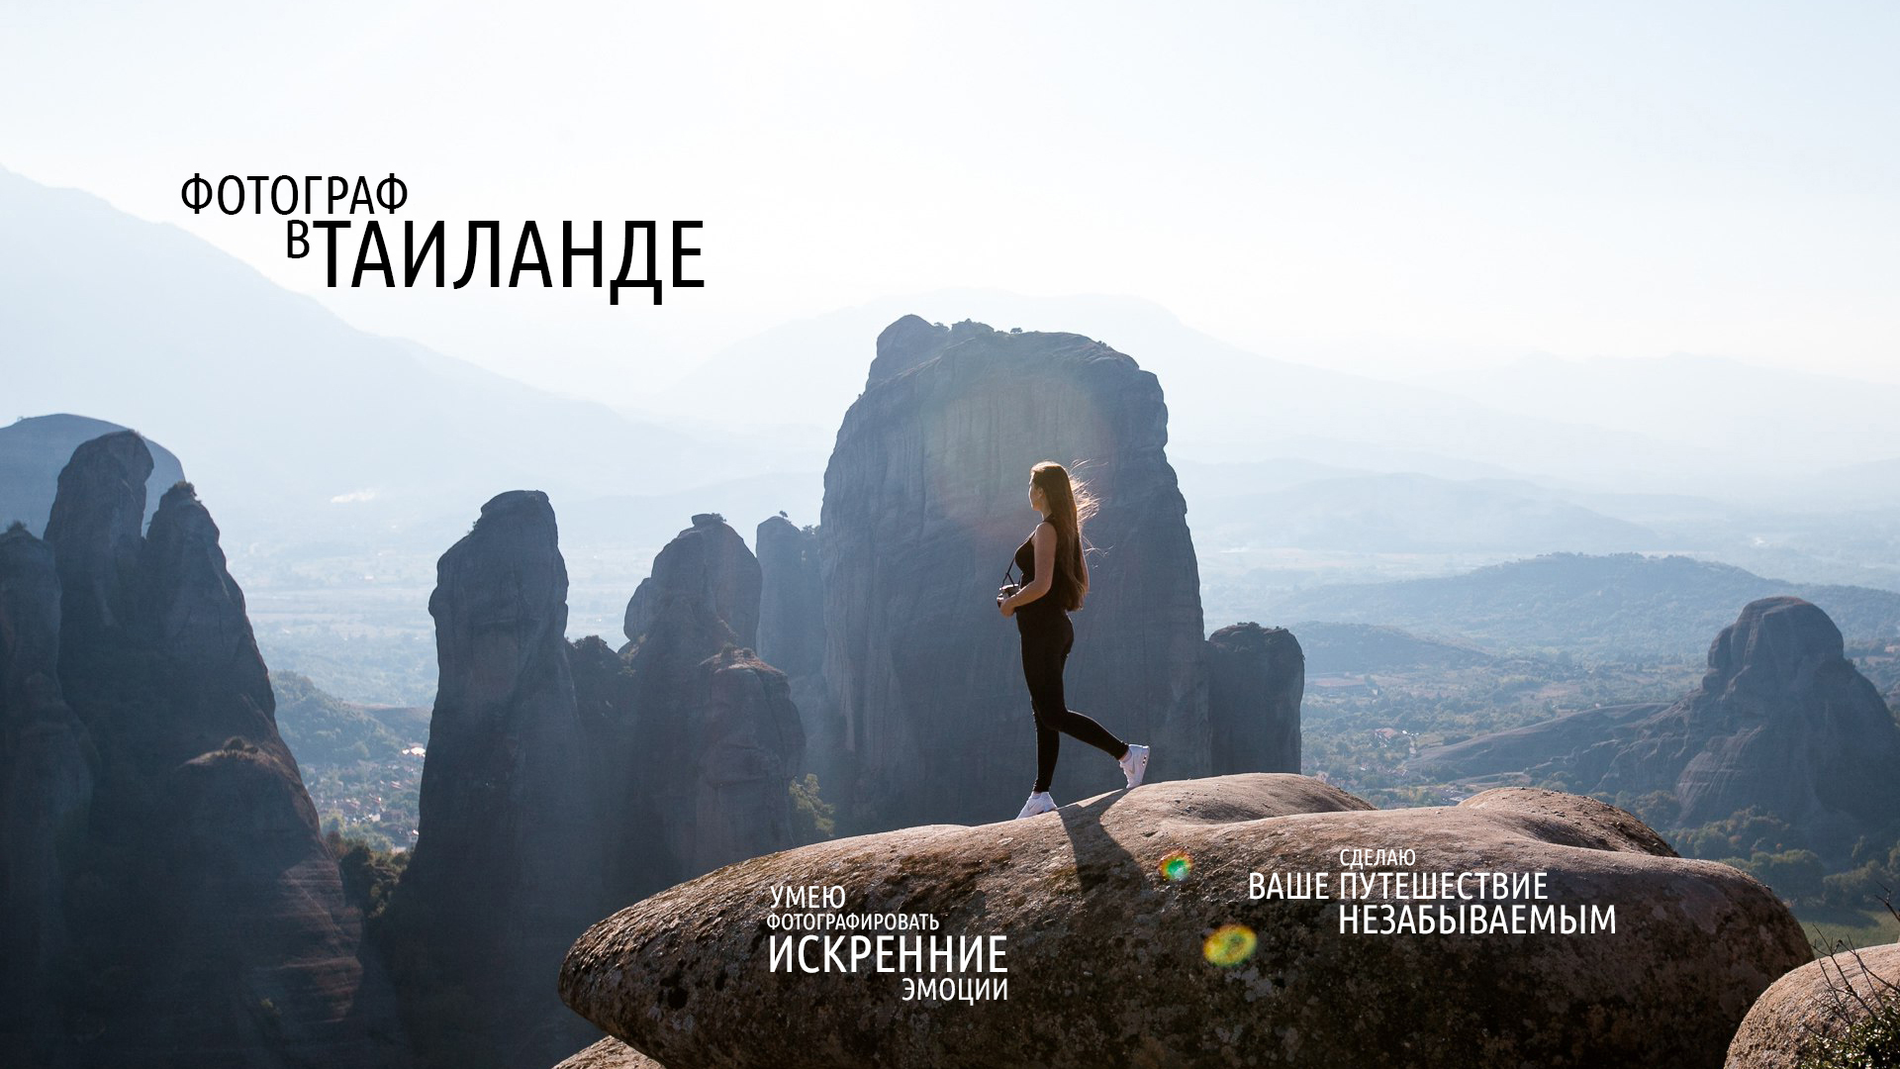
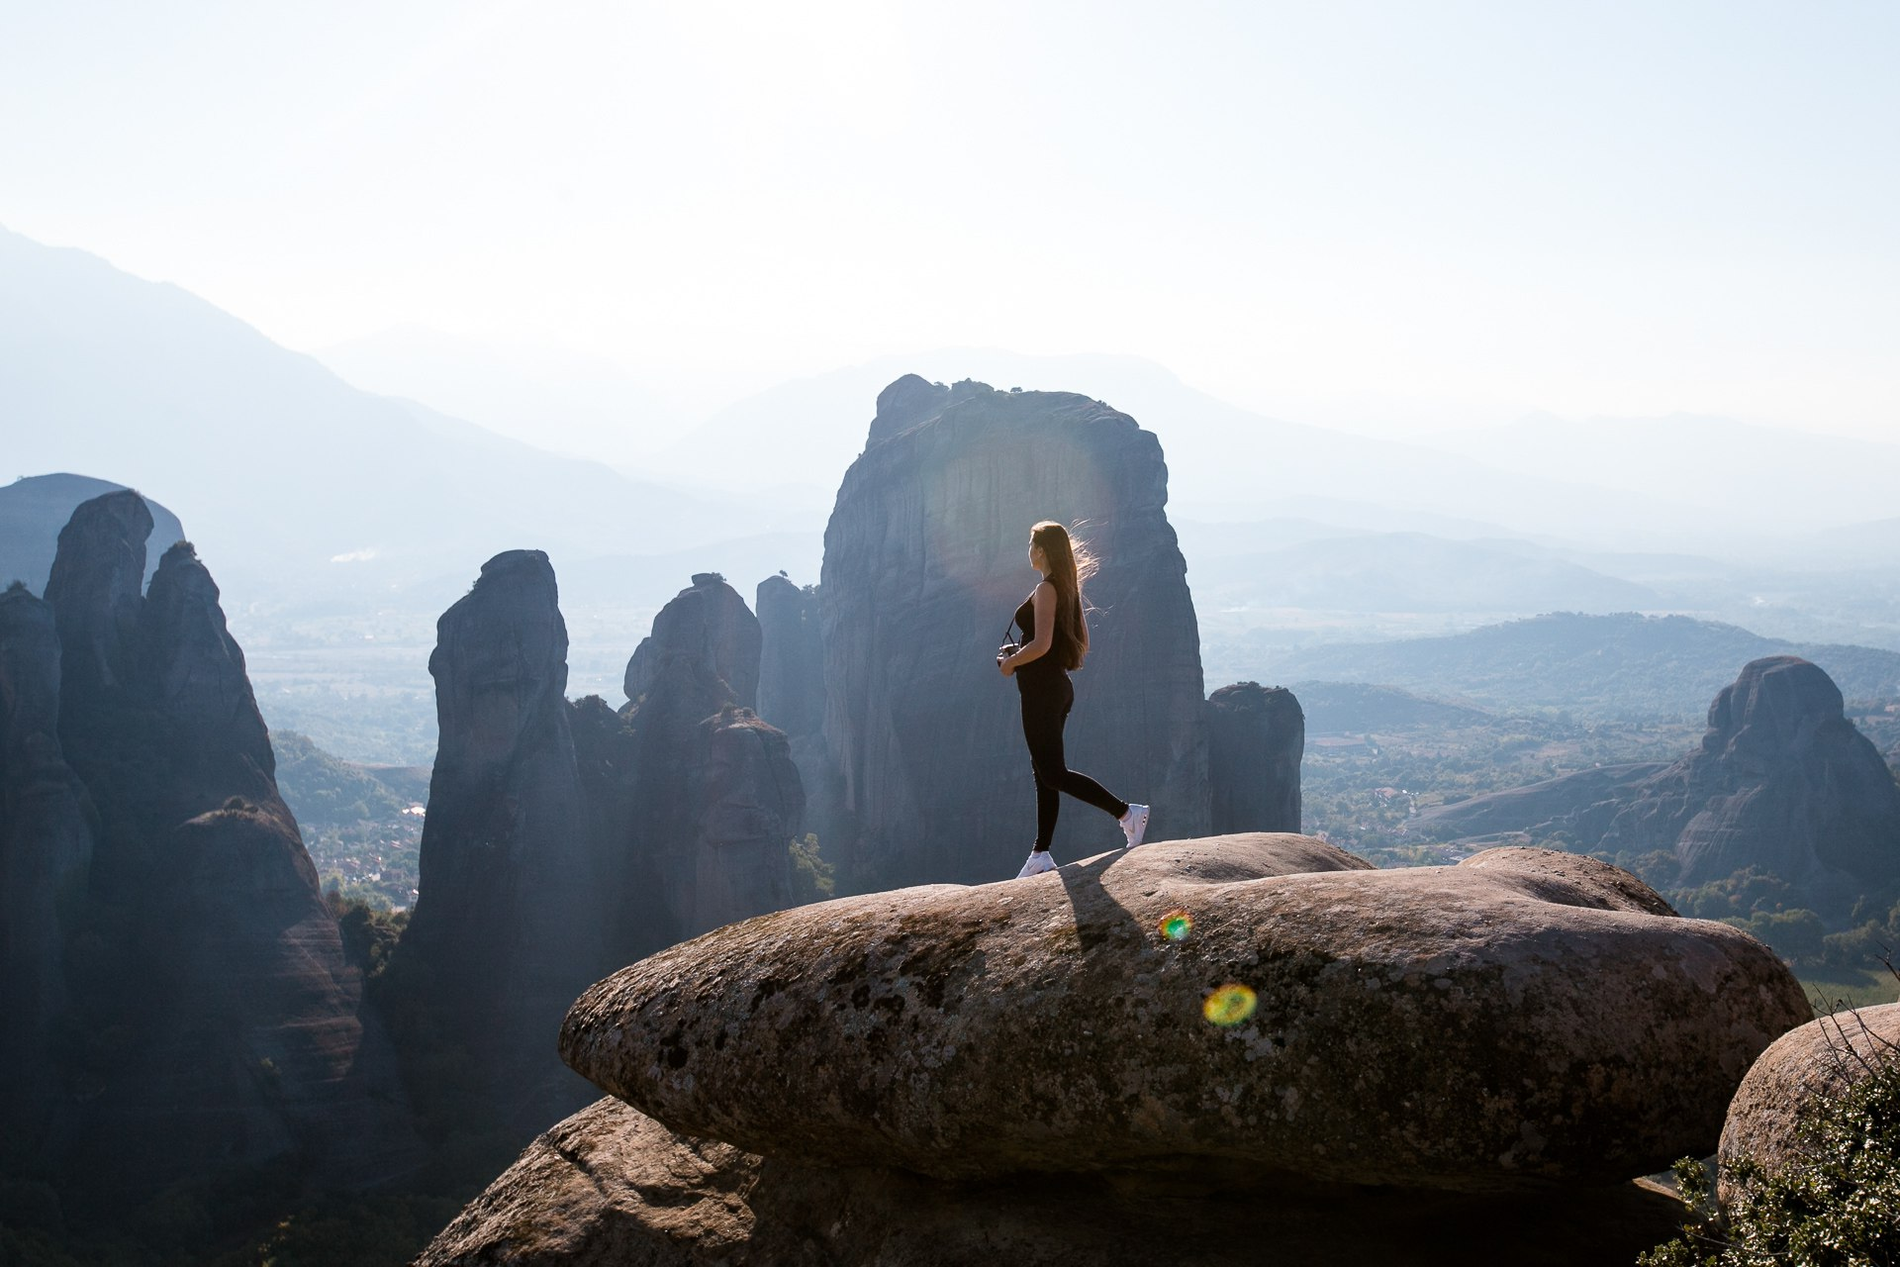
11.03.2018
New photos for background and adaptable text

diff --git a/css/mainStyle.css b/css/mainStyle.css
@@ -1,1 +1,1 @@
-@import url(https://fonts.googleapis.com/css?family=Ubuntu+Condensed);*{font-family:'Ubuntu Condensed',sans-serif;font-size:16px;-webkit-transition:all .6s ease;-moz-transition:all .6s ease;-o-transition:all .6s ease;-ms-transition:all .6s ease;-icab-perspective:all .6s ease;-khtml-perspective:all .6s ease;transition:all .6s ease}:active,:focus,:hover{outline:0;outline-offset:0}body,html{margin:0;padding:0;box-sizing:border-box}body{overflow-x:hidden;background-color:#efefef}a,h1,h2,h3,h4{font-family:'Ubuntu Condensed',sans-serif}h1{font-size:22px;margin:10px 0}a{text-decoration:none;color:rgba(68,68,68,.8)}a:hover{cursor:pointer;text-decoration:none}img{max-width:100%;height:auto;width:auto\9}.link{cursor:pointer}.mainImage,.secondImage,.thirdImage{background-repeat:no-repeat}.mainImage{height:100vh;background-image:url(../content/1.jpg);background-position:50% 50%;background-size:100%}@media screen and (max-width:768px){.mainImage{background-image:url(../content/1sm.jpg);background-position:55% 40%;background-size:cover}}@media screen and (min-width:769px){.mainImage{background-image:url(../content/1sm.jpg);background-position:50% 50%;background-size:150%}}@media screen and (min-width:992px){.mainImage{background-image:url(../content/1mid.jpg);background-position:50% 70%;background-size:120%}}@media screen and (min-width:1200px){.mainImage{background-image:url(../content/1.jpg);background-position:50% 50%;background-size:cover}}.secondImage{height:100vh;background-image:url(../content/2.jpg);background-position:50% 30%}@media screen and (max-width:768px){.secondImage{background-image:url(../content/2sm.jpg);background-position:50% -20%}}.thirdImage{background-image:url(../content/3.jpg);background-position:70% 40%}@media screen and (max-width:768px){.thirdImage{background-image:url(../content/3sm.jpg);background-position:60% 40%}}#about,#contacts,#portfolio,#work{padding:30px 0}#feedback,#work{background-color:#efefef}.navigation{position:fixed;top:0;font-size:15px;text-transform:uppercase}@media screen and (max-width:1222px){.navigation .row{display:flex;justify-content:center}}.navigation .logo{display:flex;justify-content:center;padding-top:10px;padding-bottom:10px}.navigation .logo img{max-height:40px}.navigation .buttons{padding-top:10px;min-width:750px;text-align:center}.navigation div.openButton{padding:10px}@media screen and (max-width:768px){.navigation .buttons .button{display:none;padding:10px}}@media screen and (max-width:844px){.navigation .buttons .button{padding:10px}}@media screen and (min-width:845px){.navigation .buttons .button{padding:10px}}.navigation .buttons .openButton{display:none}@media screen and (max-width:768px){.navigation .buttons .openButton{display:block}}.about .row{padding:0}.about .row>div{padding:10px}.about img{display:flex;justify-content:center}.about .textAboutMe{text-align:justify}.work .title{padding:15px;text-align:center}.work .types>div{margin-top:5px;margin-bottom:5px}.work .name{text-transform:uppercase;text-align:center}.work .name h2{font-size:20px}.work .pic>img{width:100%}.work .descr{border:1px solid rgba(68,68,68,.8);border-radius:5px;height:400px}.work .types>div>div{margin-bottom:10px;margin-top:10px}.price{margin-bottom:20px}.price .row>div{margin-bottom:10px;margin-top:10px}.price .title h1{text-align:center;color:rgba(68,68,68,.8);font-size:20px}.price .pr{padding:inherit;border:1px solid #ec3237;border-radius:5px}.price .order{padding:10px;width:50%;text-align:center;margin:10px auto;border:1px solid rgba(68,68,68,.8);border-radius:5px}.price .order:hover{border:1px solid #ec3237;border-radius:5px}.portfolio .thumb{padding:15px}.portfolio .thumb img{display:block;margin:0 auto}.portfolio .hidden{display:none}#portfolio .title{padding:10px}#portfolio .title h1{text-align:center}.feedback{padding:20px}.feedback .fb{padding:10px}.feedback .fb .text{text-align:justify;padding:15px}.feedback .fb .text p{margin:0}.feedback .fb .text h1{margin:0 0 10px}.feedback .fb img{display:block;margin:0 auto;width:40%;border-radius:50%}#feedback .title{padding:10px;text-align:center;margin:0 auto}.map{padding:0}@media screen and (max-width:768px){.map{padding:10px}}.map .title h1{text-align:center}footer{color:#fff}footer a.linkToDialog,footer div{text-align:center;margin:10px auto;width:50%;padding:5px;background-color:rgba(255,255,255,.3)}@media screen and (max-width:768px){footer a.linkToDialog,footer div{width:90%}}footer .socialMedia{display:flex;justify-content:center}footer .socialMedia a{color:#fff;margin:4px 30px}footer .socialMedia .fab{font-size:40px}footer .socialMedia .fab:hover{cursor:pointer}footer .socialMedia .fa-vk:hover{color:#507299}footer .socialMedia .fa-instagram:hover{background:-webkit-linear-gradient(bottom left,#fab21f,#e90006,#ba0197);background:-o-linear-gradient(bottom left,#fab21f,#e90006,#ba0197);background:-moz-linear-gradient(bottom left,#fab21f,#e90006,#ba0197);background:linear-gradient(to top right,#fab21f,#e90006,#ba0197);-webkit-background-clip:text;-moz-background-clip:text;-o-background-clip:text;background-clip:text;color:transparent}footer .socialMedia .fa-facebook-f:hover{color:#3b5998}footer .email,footer .phoneNumber{text-align:center}footer .linkToDialog{color:#fff;display:block}footer a.linkToDialog:hover{background-color:rgba(0,0,0,.5)}.theme1{color:rgba(68,68,68,.8);background-color:#fff}.theme1 a{color:rgba(68,68,68,.8)}.theme1 a.linkBg:hover{background-color:#ec3237}.theme1 a.link:hover{color:#ec3237}.theme2,.theme2 button,.theme2 input,.theme2 textarea{color:#fff;background-color:rgba(68,68,68,.8)}.theme2 a{color:#fff}.theme2 .link:hover{color:#ec3237}.theme3{color:rgba(68,68,68,.8);background-color:#ec3237}.theme3 a{color:rgba(68,68,68,.8)}.theme3 a.linkBg:hover{background-color:#fff}.theme3 a.link:hover{color:#fff}
+@import url(https://fonts.googleapis.com/css?family=Ubuntu+Condensed);*{font-family:'Ubuntu Condensed',sans-serif;font-size:16px;-webkit-transition:all .6s ease;-moz-transition:all .6s ease;-o-transition:all .6s ease;-ms-transition:all .6s ease;-icab-perspective:all .6s ease;-khtml-perspective:all .6s ease;transition:all .6s ease}:active,:focus,:hover{outline:0;outline-offset:0}body,html{margin:0;padding:0;box-sizing:border-box}body{overflow-x:hidden;background-color:#efefef}a,h1,h2,h3,h4{font-family:'Ubuntu Condensed',sans-serif}h1{font-size:22px;margin:10px 0}a{text-decoration:none;color:rgba(68,68,68,.8)}a:hover{cursor:pointer;text-decoration:none}img{max-width:100%;height:auto;width:auto\9}.link{cursor:pointer}.mainImage,.secondImage,.thirdImage{background-repeat:no-repeat}.mainImage{height:100vh;background-image:url(../content/1.jpg);background-position:50% 50%;background-size:cover}@media screen and (max-width:768px){.mainImage{background-image:url(../content/1sm.jpg);background-position:50% 50%;background-size:cover}}.mainImage .text1{font-size:20px;color:#000;display:inline-block;position:absolute;line-height:17px;left:10%;top:10%}.mainImage .text1 div:nth-of-type(1){margin-left:-46px;font-size:30px;line-height:24px}@media screen and (max-width:991px){.mainImage .text1 div:nth-of-type(1){margin-left:-40px;font-size:24px;line-height:18px}}.mainImage .text1 div:nth-of-type(2){font-size:30px;line-height:24px;margin-left:-10px}@media screen and (max-width:991px){.mainImage .text1 div:nth-of-type(2){font-size:24px;line-height:18px;margin-left:-4px}}.mainImage .text1 div:nth-of-type(3){font-size:58px;line-height:42px;margin-top:-23px;margin-left:6px}@media screen and (max-width:991px){.mainImage .text1 div:nth-of-type(3){font-size:52px;line-height:36px;margin-top:-17px;margin-left:10px}}@media screen and (max-width:1142px){.mainImage .text1{left:21%;top:21%}}@media screen and (max-width:768px){.mainImage .text1{left:21%;top:18%}}.mainImage .text2{font-size:20px;color:rgba(255,255,255,.9);display:inline-block;position:relative;line-height:17px;left:24%;top:58%}.mainImage .text2 div:nth-of-type(1){font-size:27px;line-height:24px}@media screen and (max-width:991px){.mainImage .text2 div:nth-of-type(1){font-size:21px;line-height:18px}}.mainImage .text2 div:nth-of-type(2){font-size:18px;line-height:15px}@media screen and (max-width:991px){.mainImage .text2 div:nth-of-type(2){font-size:12px;line-height:9px}}.mainImage .text2 div:nth-of-type(3){font-size:39px;line-height:32px}@media screen and (max-width:991px){.mainImage .text2 div:nth-of-type(3){font-size:33px;line-height:26px}}.mainImage .text2 div:nth-of-type(4){float:right;font-size:22px;line-height:18px}@media screen and (max-width:991px){.mainImage .text2 div:nth-of-type(4){font-size:16px;line-height:12px}}@media screen and (max-width:768px){.mainImage .text2{left:17%;top:58%}}.mainImage .text3{font-size:20px;color:rgba(255,255,255,.9);display:inline-block;position:absolute;line-height:17px;left:59%;top:85%}.mainImage .text3 div:nth-of-type(1){font-size:19px;line-height:17px;margin-left:75px}@media screen and (max-width:991px){.mainImage .text3 div:nth-of-type(1){font-size:13px;line-height:11px;margin-left:69px}}@media screen and (max-width:768px){.mainImage .text3 div:nth-of-type(1){font-size:10px;line-height:9px;margin-left:62px}}.mainImage .text3 div:nth-of-type(2){font-size:28px;line-height:22px;margin-left:4px}@media screen and (max-width:991px){.mainImage .text3 div:nth-of-type(2){font-size:22px;line-height:20px;margin-left:12px}}@media screen and (max-width:768px){.mainImage .text3 div:nth-of-type(2){font-size:17px;line-height:17px;margin-left:19px}}.mainImage .text3 div:nth-of-type(3){font-size:46px;line-height:33px;margin-left:71px}@media screen and (max-width:991px){.mainImage .text3 div:nth-of-type(3){font-size:40px;line-height:29px;margin-left:65px}}@media screen and (max-width:768px){.mainImage .text3 div:nth-of-type(3){font-size:31px;line-height:22px;margin-left:60px}}@media screen and (max-width:1142px){.mainImage .text3{left:54%;top:85%}}@media screen and (max-width:768px){.mainImage .text3{left:21%;top:79%}}.secondImage{height:100vh;background-image:url(../content/2.jpg);background-position:50% 30%}@media screen and (max-width:768px){.secondImage{background-image:url(../content/2sm.jpg);background-position:50% -20%}}.thirdImage{background-image:url(../content/3.jpg);background-position:70% 40%}@media screen and (max-width:768px){.thirdImage{background-image:url(../content/3sm.jpg);background-position:60% 40%}}#about,#contacts,#portfolio,#work{padding:30px 0}#feedback,#work{background-color:#efefef}.navigation{position:fixed;top:0;font-size:15px;text-transform:uppercase}@media screen and (max-width:1222px){.navigation .row{display:flex;justify-content:center}}.navigation .logo{display:flex;justify-content:center;padding-top:10px;padding-bottom:10px}.navigation .logo img{max-height:40px}.navigation .buttons{padding-top:10px;min-width:750px;text-align:center}.navigation div.openButton{padding:10px}@media screen and (max-width:768px){.navigation .buttons .button{display:none;padding:10px}}@media screen and (max-width:844px){.navigation .buttons .button{padding:10px}}@media screen and (min-width:845px){.navigation .buttons .button{padding:10px}}.navigation .buttons .openButton{display:none}@media screen and (max-width:768px){.navigation .buttons .openButton{display:block}}.about .row{padding:0}.about .row>div{padding:10px}.about img{display:flex;justify-content:center}.about .textAboutMe{text-align:justify}.work .title{padding:15px;text-align:center}.work .types>div{margin-top:5px;margin-bottom:5px}.work .name{text-transform:uppercase;text-align:center}.work .name h2{font-size:20px}.work .pic>img{width:100%}.work .descr{border:1px solid rgba(68,68,68,.8);border-radius:5px;height:400px}.work .types>div>div{margin-bottom:10px;margin-top:10px}.price{margin-bottom:20px}.price .row>div{margin-bottom:10px;margin-top:10px}.price .title h1{text-align:center;color:rgba(68,68,68,.8);font-size:20px}.price .pr{padding:inherit;border:1px solid #ec3237;border-radius:5px}.price .order{padding:10px;width:50%;text-align:center;margin:10px auto;border:1px solid rgba(68,68,68,.8);border-radius:5px}.price .order:hover{border:1px solid #ec3237;border-radius:5px}.portfolio .thumb{padding:15px}.portfolio .thumb img{display:block;margin:0 auto}.portfolio .hidden{display:none}#portfolio .title{padding:10px}#portfolio .title h1{text-align:center}.feedback{padding:20px}.feedback .fb{padding:10px}.feedback .fb .text{text-align:justify;padding:15px}.feedback .fb .text p{margin:0}.feedback .fb .text h1{margin:0 0 10px}.feedback .fb img{display:block;margin:0 auto;width:40%;border-radius:50%}#feedback .title{padding:10px;text-align:center;margin:0 auto}.map{padding:0}@media screen and (max-width:768px){.map{padding:10px}}.map .title h1{text-align:center}footer{color:#fff}footer a.linkToDialog,footer div{text-align:center;margin:10px auto;width:50%;padding:5px;background-color:rgba(255,255,255,.3)}@media screen and (max-width:768px){footer a.linkToDialog,footer div{width:90%}}footer .socialMedia{display:flex;justify-content:center}footer .socialMedia a{color:#fff;margin:4px 30px}footer .socialMedia .fab{font-size:40px}footer .socialMedia .fab:hover{cursor:pointer}footer .socialMedia .fa-vk:hover{color:#507299}footer .socialMedia .fa-instagram:hover{background:-webkit-linear-gradient(bottom left,#fab21f,#e90006,#ba0197);background:-o-linear-gradient(bottom left,#fab21f,#e90006,#ba0197);background:-moz-linear-gradient(bottom left,#fab21f,#e90006,#ba0197);background:linear-gradient(to top right,#fab21f,#e90006,#ba0197);-webkit-background-clip:text;-moz-background-clip:text;-o-background-clip:text;background-clip:text;color:transparent}footer .socialMedia .fa-facebook-f:hover{color:#3b5998}footer .email,footer .phoneNumber{text-align:center}footer .linkToDialog{color:#fff;display:block}footer a.linkToDialog:hover{background-color:rgba(0,0,0,.5)}.theme1{color:rgba(68,68,68,.8);background-color:#fff}.theme1 a{color:rgba(68,68,68,.8)}.theme1 a.linkBg:hover{background-color:#ec3237}.theme1 a.link:hover{color:#ec3237}.theme2,.theme2 button,.theme2 input,.theme2 textarea{color:#fff;background-color:rgba(68,68,68,.8)}.theme2 a{color:#fff}.theme2 .link:hover{color:#ec3237}.theme3{color:rgba(68,68,68,.8);background-color:#ec3237}.theme3 a{color:rgba(68,68,68,.8)}.theme3 a.linkBg:hover{background-color:#fff}.theme3 a.link:hover{color:#fff}

diff --git a/css/mainStyle.less b/css/mainStyle.less
@@ -61,27 +61,174 @@ img{
     height: 100vh;
     background-image: url(../content/1.jpg);
     background-position: 50% 50%;
-    background-size: 100%;
-    @media screen and (max-width: 768px){
+    background-size: cover;
+    @media screen and(max-width: 768px){
         background-image: url(../content/1sm.jpg);
-        background-position: 55% 40%;
-        background-size: cover;
-    }
-    @media screen and (min-width: 769px){
-        background-image: url(../content/1sm.jpg);
-        background-position: 50% 50%;
-        background-size: 150%;
-    }
-    @media screen and (min-width: 992px){
-        background-image: url(../content/1mid.jpg);
-        background-position: 50% 70%;
-        background-size: 120%;
-    }
-    @media screen and (min-width: 1200px){
-        background-image: url(../content/1.jpg);
         background-position: 50% 50%;
         background-size: cover;
     }
+    .text1{
+        font-size: 20px;
+        color: black;
+        display: inline-block;
+        position: absolute;
+        line-height: 17px;
+        left: 10%;
+        top: 10%;
+        div:nth-of-type(1){
+            margin-left: -46px;
+            font-size: 30px;
+            line-height: 24px;
+            @media screen and(max-width: 991px){
+                margin-left: -40px;
+                font-size: 24px;
+                line-height: 18px;
+            }
+        }
+        div:nth-of-type(2){
+            font-size: 30px;
+            line-height: 24px;
+            margin-left: -10px;
+            @media screen and(max-width: 991px){
+                font-size: 24px;
+                line-height: 18px;
+                margin-left: -4px;
+            }
+        }
+        div:nth-of-type(3){
+            font-size: 58px;
+            line-height: 42px;
+            margin-top: -23px;
+            margin-left: 6px;
+            @media screen and(max-width: 991px){
+                font-size: 52px;
+                line-height: 36px;
+                margin-top: -17px;
+                margin-left: 10px;
+            }
+        }
+        @media screen and(max-width: 1142px){
+            left: 21%;
+            top: 21%;
+        }
+        @media screen and(max-width: 768px){
+            left: 21%;
+            top: 18%;
+        }
+    }
+    .text2{
+        font-size: 20px;
+        color: rgba(255,255,255,0.9);
+        display: inline-block;
+        position: relative;
+        line-height: 17px;
+        left: 24%;
+        top: 58%;
+        div:nth-of-type(1){
+            font-size: 27px;
+            line-height: 24px;
+            @media screen and(max-width: 991px){
+                font-size: 21px;
+                line-height: 18px;
+            }
+        }
+        div:nth-of-type(2){
+            font-size: 18px;
+            line-height: 15px;
+            @media screen and(max-width: 991px){
+                font-size: 12px;
+                line-height: 9px;
+            }
+        }
+        div:nth-of-type(3){
+            font-size: 39px;
+            line-height: 32px;
+            @media screen and(max-width: 991px){
+                font-size: 33px;
+                line-height: 26px;
+            }
+        }
+        div:nth-of-type(4){
+            float: right;
+            font-size: 22px;
+            line-height: 18px;
+            @media screen and(max-width: 991px){
+                font-size: 16px;
+                line-height: 12px;
+            }
+        }
+        @media screen and(max-width: 768px){
+            left: 17%;
+            top: 58%;
+        }
+        /*@media screen and(max-width: 768px){
+            left: 56%;
+            top: 70%;
+        }*/
+    }
+    .text3{
+        font-size: 20px;
+        color: rgba(255,255,255,0.9);
+        display: inline-block;
+        position: absolute;
+        line-height: 17px;
+        left: 59%;
+        top: 85%;
+        div:nth-of-type(1){
+            font-size: 19px;
+            line-height: 17px;
+            margin-left: 75px;
+            @media screen and(max-width: 991px){
+                font-size: 13px;
+                line-height: 11px;
+                margin-left: 69px;
+            }
+            @media screen and(max-width: 768px){
+                font-size: 10px;
+                line-height: 9px;
+                margin-left: 62px;
+            }
+        }
+        div:nth-of-type(2){
+            font-size: 28px;
+            line-height: 22px;
+            margin-left: 4px;
+            @media screen and(max-width: 991px){
+                font-size: 22px;
+                line-height: 20px;
+                margin-left: 12px;
+            }
+            @media screen and(max-width: 768px){
+                font-size: 17px;
+                line-height: 17px;
+                margin-left: 19px;
+            }
+        }
+        div:nth-of-type(3){
+            font-size: 46px;
+            line-height: 33px;
+            margin-left: 71px;
+            @media screen and(max-width: 991px){
+                font-size: 40px;
+                line-height: 29px;
+                margin-left: 65px;
+            }
+            @media screen and(max-width: 768px){
+                font-size: 31px;
+                line-height: 22px;
+                margin-left: 60px;
+            }
+        }
+        @media screen and(max-width: 1142px){
+            left: 54%;
+            top: 85%;
+        }
+        @media screen and(max-width: 768px){
+            left: 21%;
+            top: 79%;
+        }
+    }
+    
 }
 .secondImage{
     height: 100vh;

diff --git a/index.html b/index.html
@@ -13,7 +13,11 @@
     <link href="https://use.fontawesome.com/releases/v5.0.6/css/all.css" rel="stylesheet">
 </head>
 <body>
-    <header class="mainImage" id="main"></header>
+    <header class="mainImage" id="main">
+        <span class="text1"><div>ФОТОГРАФ</div><div>В</div><div>ТАИЛАНДЕ</div></span>
+        <span class="text2"><div>УМЕЮ</div><div>ФОТОГРАФИРОВАТЬ</div><div>ИСКРЕННИЕ</div><div>ЭМОЦИИ</div></span>
+        <span class="text3"><div>СДЕЛАЮ</div><div>ВАШЕ ПУТЕШЕСТВИЕ</div><div>НЕЗАБЫВАЕМЫМ</div></span>
+    </header>
     
     <div class="container-fluid theme1" id="work">
         <div class="container work">
